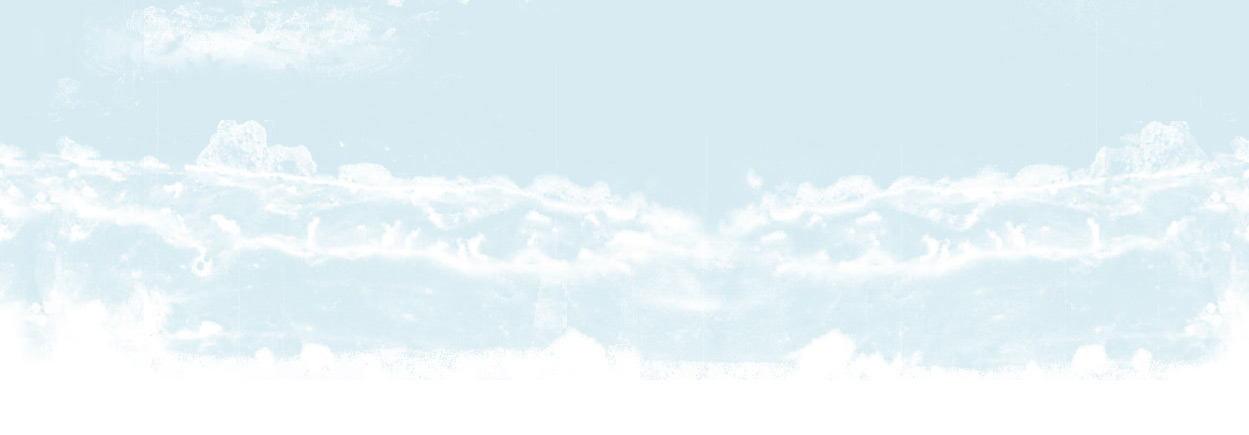
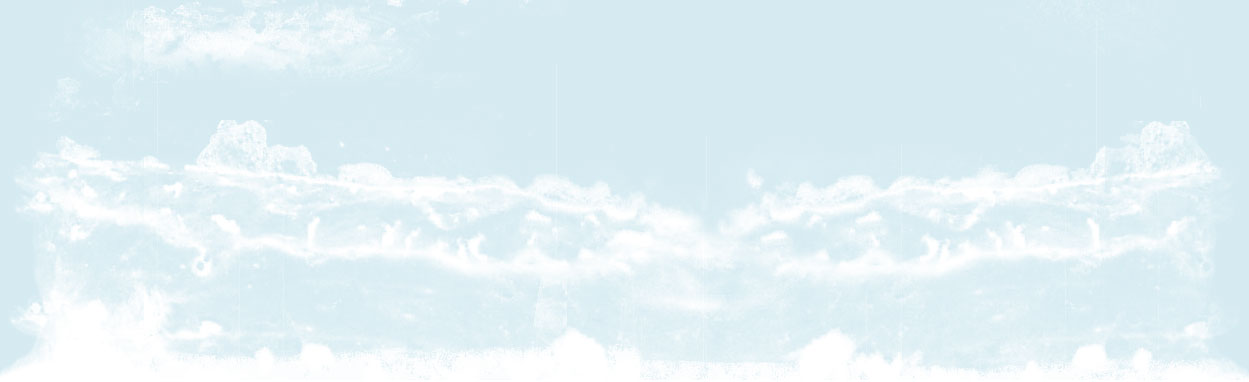
Alterado imagens do layout apartir do .psd

diff --git a/public/stylesheets/application.css b/public/stylesheets/application.css
@@ -156,7 +156,7 @@ body {
 #header #header-menu .dropdown li {
   color: #34378A;
   padding: 2px 8px 2px 6px;
-  list-style-image: url(/images/layouts/menu/bullet-normal.gif);
+  list-style-image: url(/images/layouts/menu/bullet-normal.png);
   list-style-position: inside;
 }
 
@@ -164,7 +164,7 @@ body {
   background-color: #f27f00;
   color: white;
   padding: 2px 6px;
-  list-style-image: url(/images/layouts/menu/bullet-mouseover.gif);
+  list-style-image: url(/images/layouts/menu/bullet-mouseover.png);
 }
 
 /* @end */
@@ -226,7 +226,7 @@ body {
   margin: 0 68px 0 0;
   width: 430px;
   height: 75px;
-  background: url(/images/layouts/fundo-busca.gif);
+  background: url(/images/layouts/fundo-busca.png);
 }
 
 #search #search-form #q {
@@ -254,7 +254,7 @@ body {
 #footer {
   height: 245px;
   width: 100%;
-  background: url(/images/layouts/rodape.jpg) repeat-x;
+  background: url(/images/layouts/rodape.png) repeat-x;
   color: #9c938a;
 }
 
@@ -301,7 +301,7 @@ body {
   font-size: 13px;
 }
 
-#footer #footer-menu .section li.active {
+#footer #footer-menu .section li.active, #footer #footer-menu .section li:hover {
   color: #a5784b;
   list-style-image: url(/images/layouts/menu_bullet.gif);
 }
